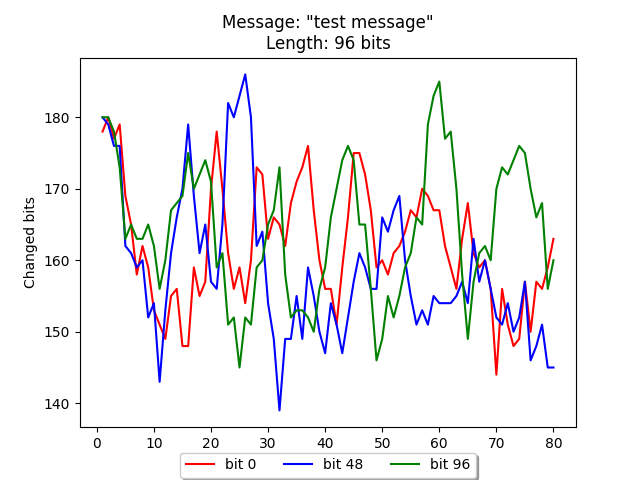
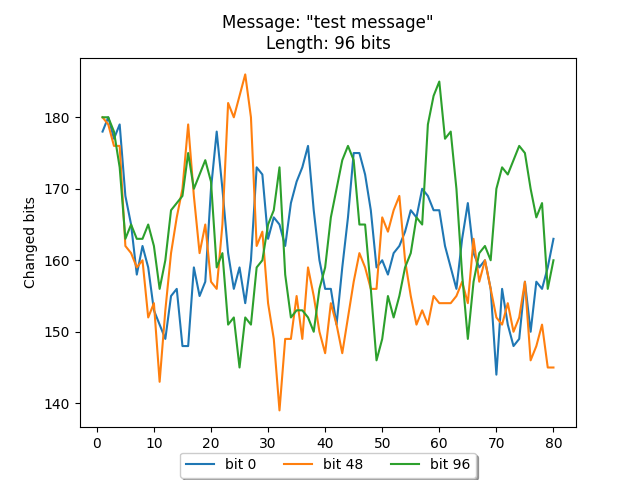
Automize bits setting

diff --git a/lab1/main.py b/lab1/main.py
@@ -1,7 +1,11 @@
 from hashpkg.ripemd320 import py_ripemd320_with_shift, py_ripemd320
 
 import matplotlib.pyplot as plt
+import matplotlib.colors as mcolors
 import yaml
+
+
+COLORS_LIST = list(mcolors.TABLEAU_COLORS.values())
 
 
 def read_data():
@@ -24,7 +28,8 @@ def generate_hash_and_plot(message, bit_to_change, ax, color):
 def main():
     data = read_data()
 
-    for index, message in enumerate(data['messages'], start=1):
+    for index, item in enumerate(data, start=1):
+        message = item['message']
         print('_' * 100)
         print(f'Message: {message}')
         print(f'Default hash: {py_ripemd320(message)}\n')
@@ -32,8 +37,8 @@ def main():
         fig, ax = plt.subplots()
 
         # set parameters
-        bits_to_change = [0, len(message) << 2, len(message) << 3]
-        colors = ['r', 'b', 'g']
+        bits_to_change = item['bits'] if 'bits' in item else [0, len(message) << 2, len(message) << 3]
+        colors = COLORS_LIST[:len(bits_to_change)]
 
         # generate hashes with different parameters
         for bit_to_change, color in zip(bits_to_change, colors):
